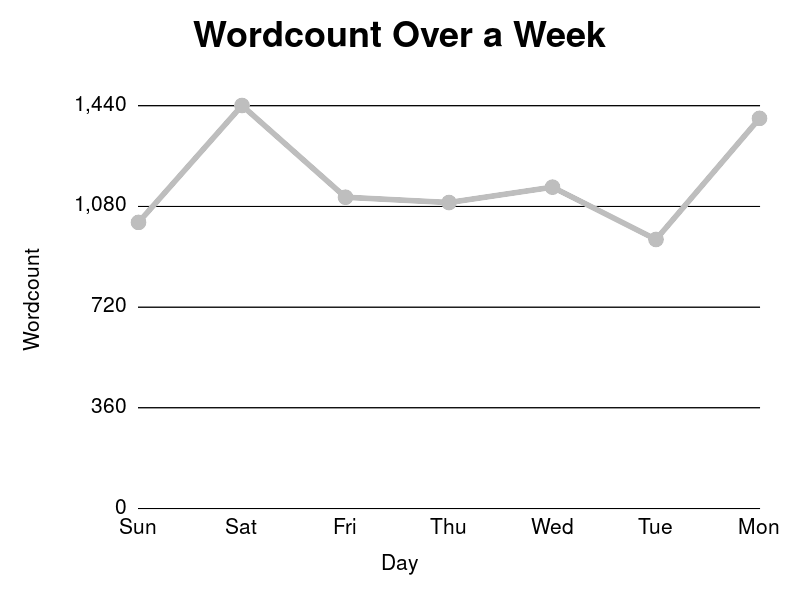
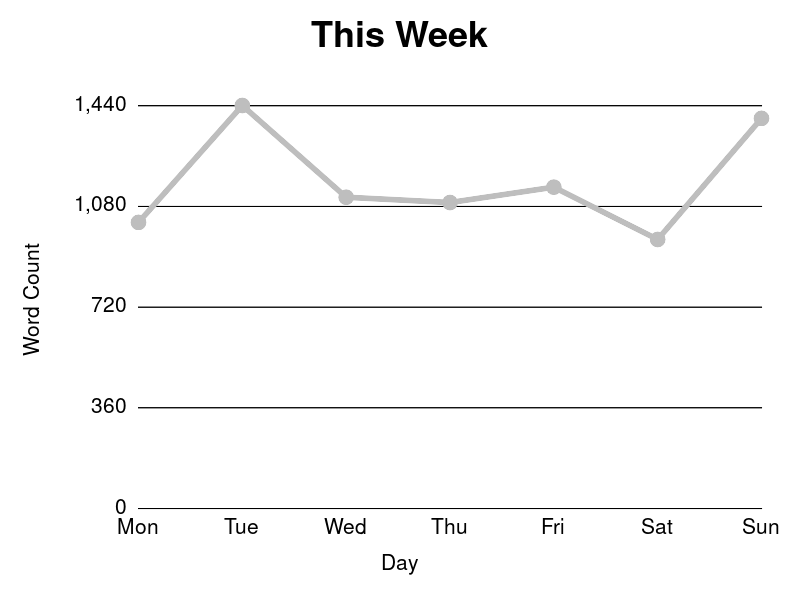
Tweak

diff --git a/lib/jekyll_recker/generators.rb b/lib/jekyll_recker/generators.rb
@@ -152,11 +152,11 @@ module JekyllRecker
 
       def make_graph(posts)
         g = new_line_graph
-        g.labels = Hash[posts.each_with_index.map { |p, i| [i, p.date.strftime("%a")] }]
+        g.labels = Hash[posts.reverse.each_with_index.map { |p, i| [i, p.date.strftime("%a")] }]
         g.data :words, posts.collect(&:content).map { |c| number_of_words(c) }.reverse
-        g.title = 'Wordcount Over a Week'
+        g.title = 'This Week'
         g.x_axis_label = 'Day'
-        g.y_axis_label = 'Wordcount'
+        g.y_axis_label = 'Word Count'
         g.minimum_value = 0
         g.write(graphs_join('words.png'))
       end
